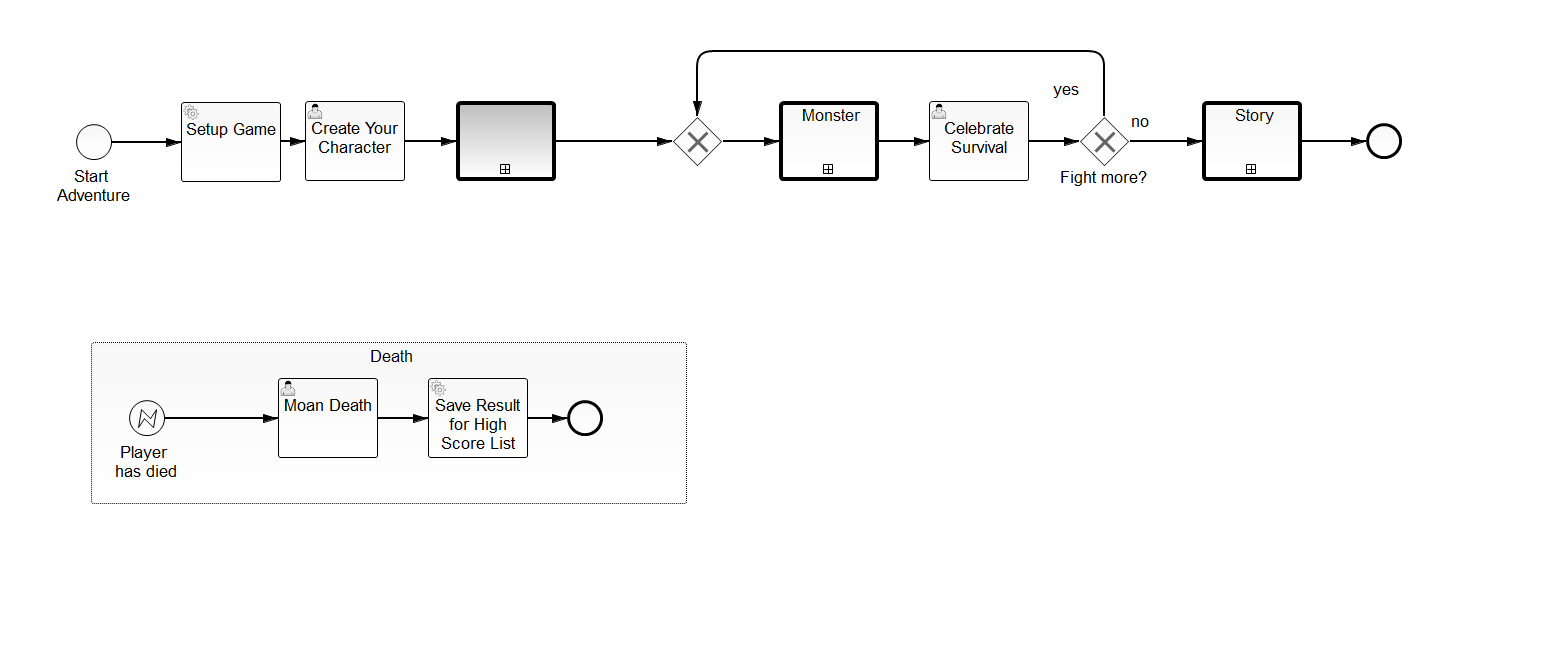
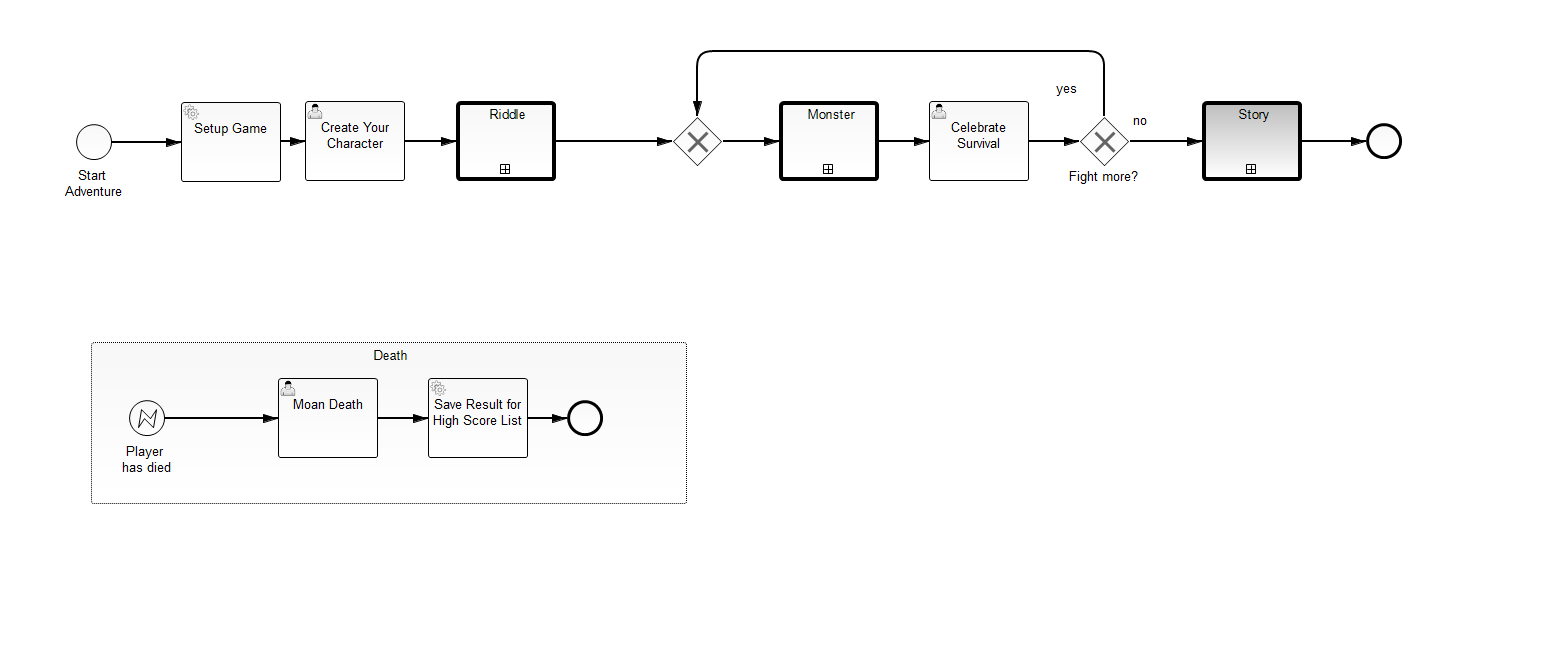
Thugs added

diff --git a/src/main/java/org/camunda/bpmn/quest/superStoryQuestOne/GenerateIntroDialog.java b/src/main/java/org/camunda/bpmn/quest/superStoryQuestOne/GenerateIntroDialog.java
@@ -8,6 +8,8 @@ import org.camunda.bpm.engine.delegate.DelegateExecution;
 import org.camunda.bpm.engine.delegate.DelegateTask;
 import org.camunda.bpm.engine.delegate.JavaDelegate;
 import org.camunda.bpm.engine.delegate.TaskListener;
+import org.camunda.bpm.engine.variable.Variables;
+import org.camunda.bpm.engine.variable.value.ObjectValue;
 import org.camunda.bpmn.quest.CharacterCreator.CharacterModel;
 import org.camunda.bpmn.quest.CharacterCreator.NameEditableFieldsUtil;
 import org.camunda.bpmn.quest.CharacterCreator.StoryModel;
@@ -24,23 +26,17 @@ public class GenerateIntroDialog implements JavaDelegate {
 				+ "While gernally you're not to fond of marketing people, you feel maybe if you help he'll learn a lesson and perhaps re-skill to become"
 				+ " something useful to society... or you could just gab some popcorn and watch the action! \n ";
 		
-		StoryModel newStory = new StoryModel(charMod.getCharacterName() + "finds a bit of trouble",  storytext );
+		StoryModel newStory = new StoryModel(charMod.getCharacterName() + " finds a bit of trouble",  storytext );
 		newStory.addOption("Help");
 		newStory.addOption("Ignore");
+		newStory.setPicture("http://ec2-52-19-141-24.eu-west-1.compute.amazonaws.com:8080/CharacterCreator/monsers/img/thugs.png");
 		
 	
-		// this is a map of fields that the user can edit 
-//		// it contains the name of the variable and the name of the lable
-//		Map<String, String> fields = new HashMap<String, String>();
-//		fields.put("characterChoice", "Make your call");
-//	
-//		NameEditableFieldsUtil nefUtil = new NameEditableFieldsUtil();
-//		
-//		// this returns the json of the fields
-//		String editableFields = nefUtil.getEditableFieldsInJson(fields, null);
-//
-//		
-//		execution.setVariable("editableFields", editableFields);
+		ObjectValue storySerialized =
+				Variables.objectValue(newStory).serializationDataFormat("application/json").create();
+		
+		execution.setVariable("storyText", storySerialized);
+	
 		execution.setVariable("storytext", storytext);
 		execution.setVariable("characterChoice", "Help"); // this is a default that can be edited by the user
 		

diff --git a/src/main/java/org/camunda/bpmn/quest/superStoryQuestOne/WaysOfSavingPM.java b/src/main/java/org/camunda/bpmn/quest/superStoryQuestOne/WaysOfSavingPM.java
@@ -1,14 +1,34 @@
 package org.camunda.bpmn.quest.superStoryQuestOne;
 
+import org.camunda.bpm.engine.delegate.DelegateExecution;
 import org.camunda.bpm.engine.delegate.DelegateTask;
+import org.camunda.bpm.engine.delegate.JavaDelegate;
 import org.camunda.bpm.engine.delegate.TaskListener;
+import org.camunda.bpmn.quest.CharacterCreator.CharacterModel;
+import org.camunda.bpmn.quest.CharacterCreator.StoryModel;
 
-public class WaysOfSavingPM implements TaskListener {
+public class WaysOfSavingPM implements JavaDelegate {
 
 	@Override
-	public void notify(DelegateTask delegateTask) {
-		// TODO Auto-generated method stub
+	public void execute(DelegateExecution execution) throws Exception {
 
+		CharacterModel  charMod = (CharacterModel) execution.getVariable("playerCharacter");
+		
+		String storytext = "You've made the honerable choice of helping out the marketing manager.. but how exactly do you plan on helping him.."
+				+ "";
+		
+		StoryModel newStory = new StoryModel(charMod.getCharacterName() + " wants to help!",  storytext );
+		newStory.addOption("Attack Then");
+		newStory.addOption("Talk to Them");
+		if(charMod.getPerception()>60)
+			newStory.addOption("Kick their Leader in the Balls");
+		
+
+		execution.setVariable("storytext", storytext);
+		execution.setVariable("characterChoice", "Help");
+		
 	}
+
+
 
 }
